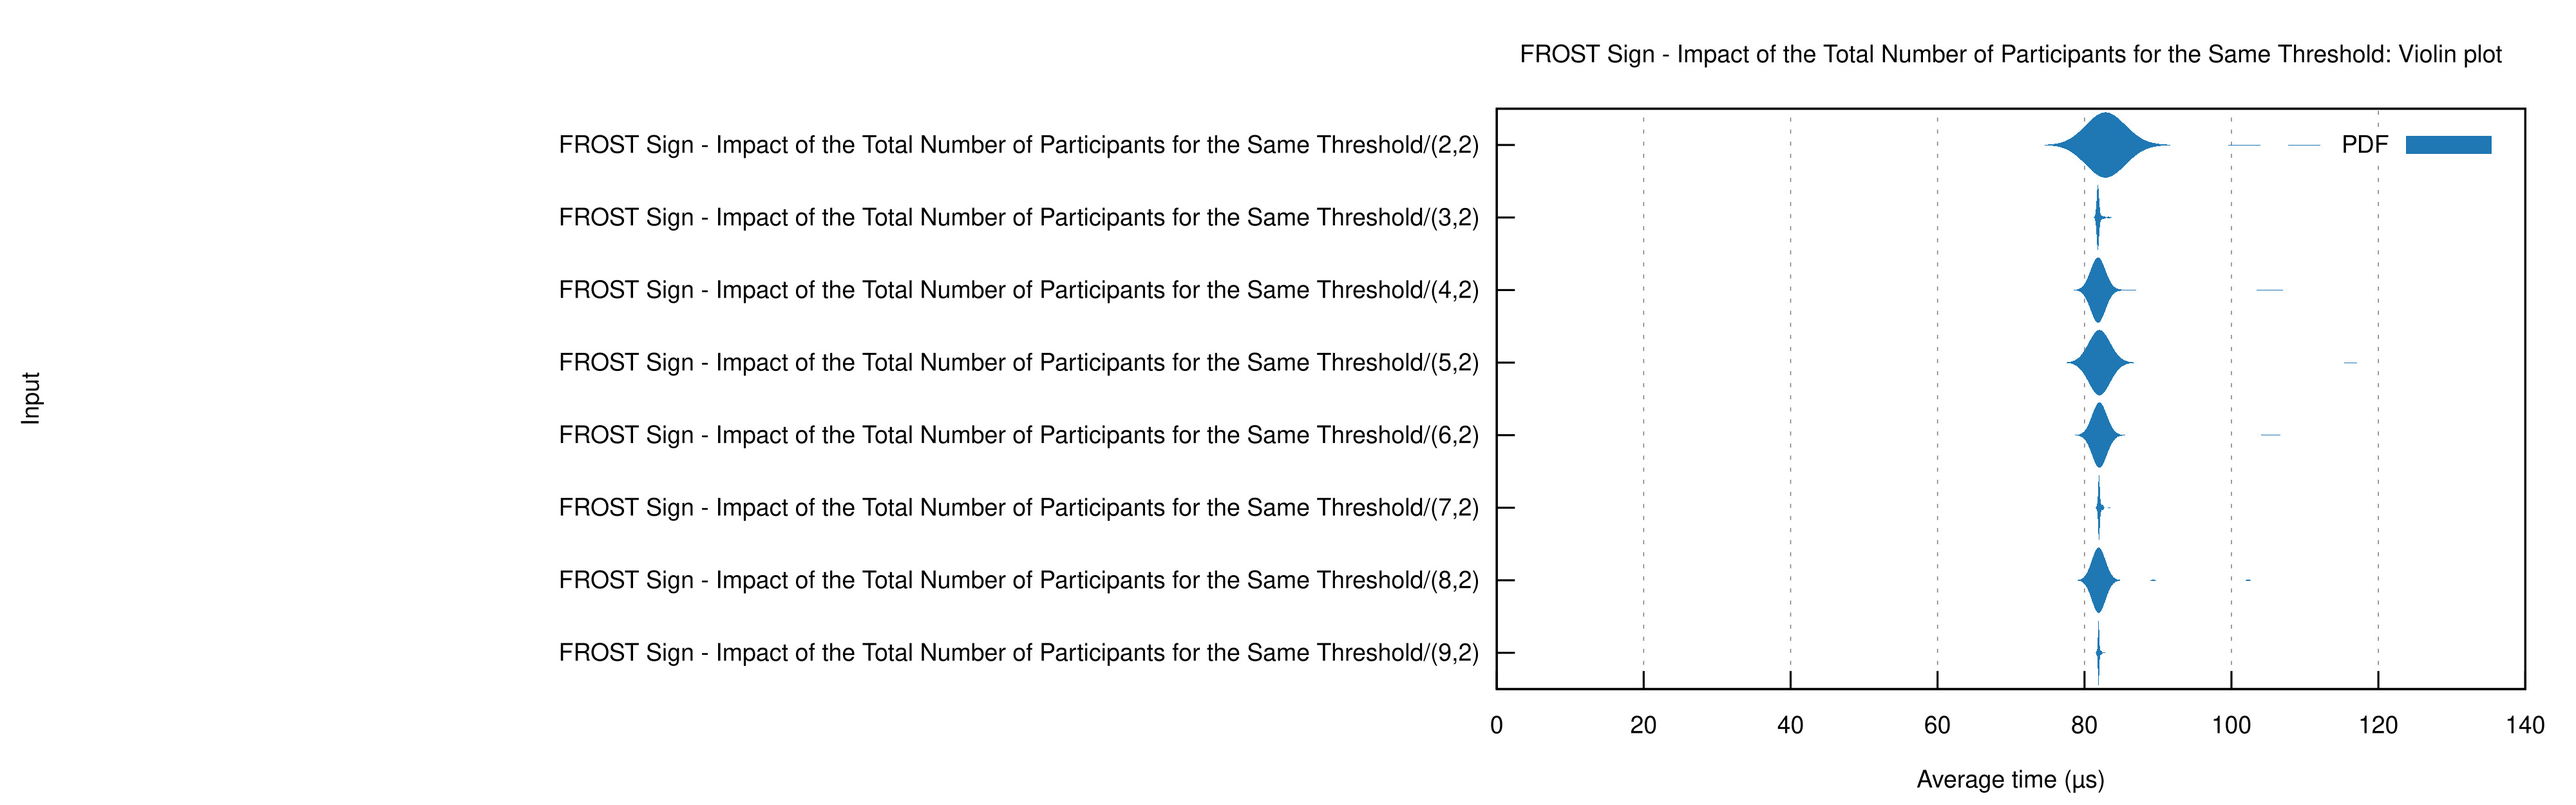
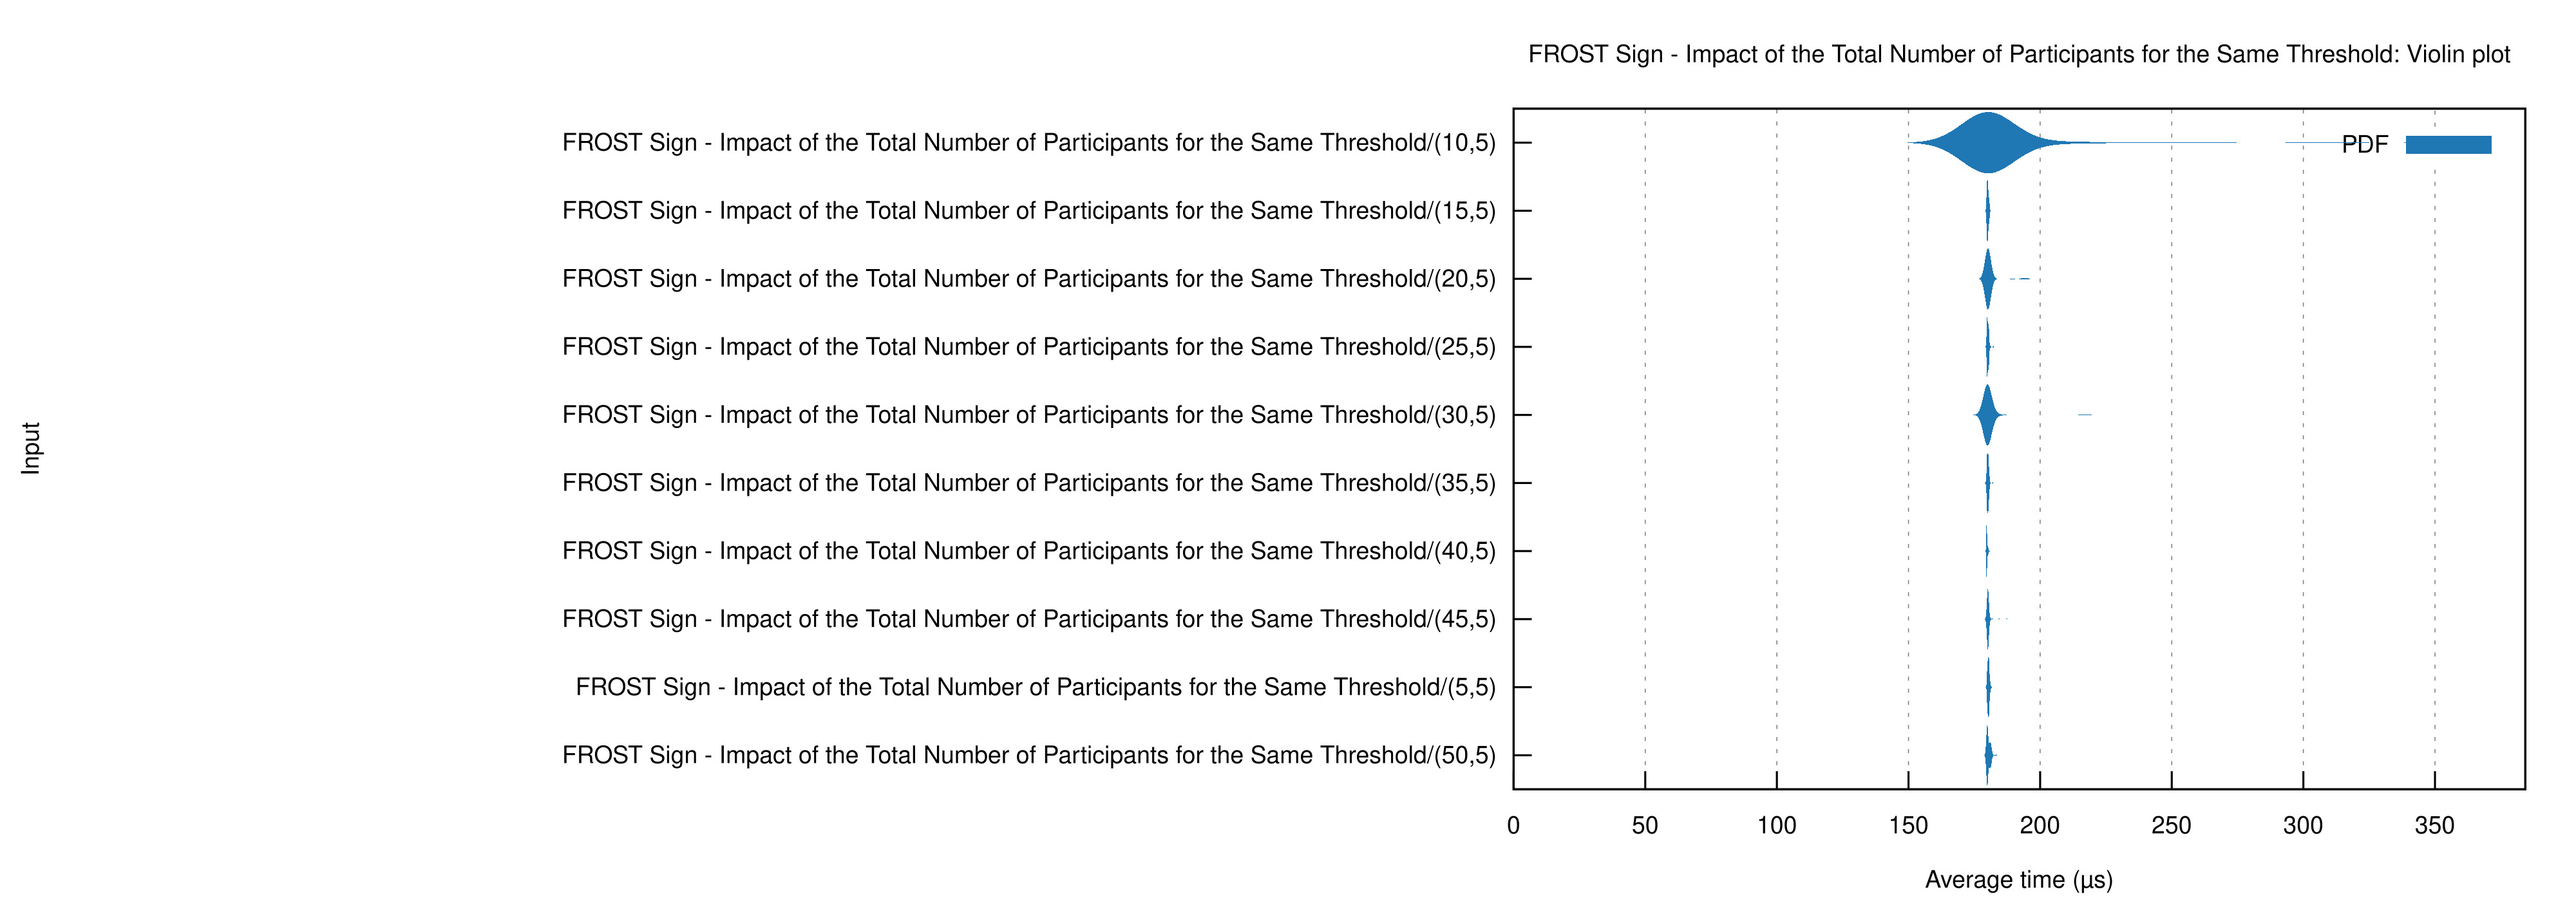
changed the images

diff --git a/benches/sign.rs b/benches/sign.rs
@@ -270,28 +270,32 @@ fn sign_benchmark(c: &mut Criterion) {
     let mut group = c.benchmark_group(
         "FROST Sign - Impact of the Total Number of Participants for the Same Threshold",
     );
-    generate_signature_values(&mut group, &FrostState::new(2, 2)).unwrap();
-    generate_signature_values(&mut group, &FrostState::new(3, 2)).unwrap();
-    generate_signature_values(&mut group, &FrostState::new(4, 2)).unwrap();
-    generate_signature_values(&mut group, &FrostState::new(5, 2)).unwrap();
-    generate_signature_values(&mut group, &FrostState::new(6, 2)).unwrap();
-    generate_signature_values(&mut group, &FrostState::new(7, 2)).unwrap();
-    generate_signature_values(&mut group, &FrostState::new(8, 2)).unwrap();
-    generate_signature_values(&mut group, &FrostState::new(9, 2)).unwrap();
+    generate_signature_values(&mut group, &FrostState::new(5, 5)).unwrap();
+    generate_signature_values(&mut group, &FrostState::new(10, 5)).unwrap();
+    generate_signature_values(&mut group, &FrostState::new(15, 5)).unwrap();
+    generate_signature_values(&mut group, &FrostState::new(20, 5)).unwrap();
+    generate_signature_values(&mut group, &FrostState::new(25, 5)).unwrap();
+    generate_signature_values(&mut group, &FrostState::new(30, 5)).unwrap();
+    generate_signature_values(&mut group, &FrostState::new(35, 5)).unwrap();
+    generate_signature_values(&mut group, &FrostState::new(40, 5)).unwrap();
+    generate_signature_values(&mut group, &FrostState::new(45, 5)).unwrap();
+    generate_signature_values(&mut group, &FrostState::new(50, 5)).unwrap();
     group.finish();
 
     // group that will benchmark how the threshold influences performance
     let mut group = c.benchmark_group(
         "FROST Sign - Impact of Different Thresholds for the Same Number of Participants",
     );
-    generate_signature_values(&mut group, &FrostState::new(9, 2)).unwrap();
-    generate_signature_values(&mut group, &FrostState::new(9, 3)).unwrap();
-    generate_signature_values(&mut group, &FrostState::new(9, 4)).unwrap();
-    generate_signature_values(&mut group, &FrostState::new(9, 5)).unwrap();
-    generate_signature_values(&mut group, &FrostState::new(9, 6)).unwrap();
-    generate_signature_values(&mut group, &FrostState::new(9, 7)).unwrap();
-    generate_signature_values(&mut group, &FrostState::new(9, 8)).unwrap();
-    generate_signature_values(&mut group, &FrostState::new(9, 9)).unwrap();
+    generate_signature_values(&mut group, &FrostState::new(50, 5)).unwrap();
+    generate_signature_values(&mut group, &FrostState::new(50, 10)).unwrap();
+    generate_signature_values(&mut group, &FrostState::new(50, 15)).unwrap();
+    generate_signature_values(&mut group, &FrostState::new(50, 20)).unwrap();
+    generate_signature_values(&mut group, &FrostState::new(50, 25)).unwrap();
+    generate_signature_values(&mut group, &FrostState::new(50, 30)).unwrap();
+    generate_signature_values(&mut group, &FrostState::new(50, 35)).unwrap();
+    generate_signature_values(&mut group, &FrostState::new(50, 40)).unwrap();
+    generate_signature_values(&mut group, &FrostState::new(50, 45)).unwrap();
+    generate_signature_values(&mut group, &FrostState::new(50, 50)).unwrap();
     group.finish();
 }
 

diff --git a/benches/keygen.rs b/benches/keygen.rs
@@ -207,28 +207,32 @@ fn keygen_benchmark(c: &mut Criterion) {
     let mut group = c.benchmark_group(
         "FROST Key Generation - Impact of the Total Number of Participants for the Same Threshold",
     );
-    generate_keygen_values(&mut group, &FrostState::new(2, 2)).unwrap();
-    generate_keygen_values(&mut group, &FrostState::new(3, 2)).unwrap();
-    generate_keygen_values(&mut group, &FrostState::new(4, 2)).unwrap();
-    generate_keygen_values(&mut group, &FrostState::new(5, 2)).unwrap();
-    generate_keygen_values(&mut group, &FrostState::new(6, 2)).unwrap();
-    generate_keygen_values(&mut group, &FrostState::new(7, 2)).unwrap();
-    generate_keygen_values(&mut group, &FrostState::new(8, 2)).unwrap();
-    generate_keygen_values(&mut group, &FrostState::new(9, 2)).unwrap();
+    generate_keygen_values(&mut group, &FrostState::new(5, 5)).unwrap();
+    generate_keygen_values(&mut group, &FrostState::new(10, 5)).unwrap();
+    generate_keygen_values(&mut group, &FrostState::new(15, 5)).unwrap();
+    generate_keygen_values(&mut group, &FrostState::new(20, 5)).unwrap();
+    generate_keygen_values(&mut group, &FrostState::new(25, 5)).unwrap();
+    generate_keygen_values(&mut group, &FrostState::new(30, 5)).unwrap();
+    generate_keygen_values(&mut group, &FrostState::new(35, 5)).unwrap();
+    generate_keygen_values(&mut group, &FrostState::new(40, 5)).unwrap();
+    generate_keygen_values(&mut group, &FrostState::new(45, 5)).unwrap();
+    generate_keygen_values(&mut group, &FrostState::new(50, 5)).unwrap();
     group.finish();
 
     // group that will benchmark how the threshold influences performance
     let mut group = c.benchmark_group(
         "FROST Key Generation - Impact of Different Thresholds for the Same Number of Participants",
     );
-    generate_keygen_values(&mut group, &FrostState::new(9, 2)).unwrap();
-    generate_keygen_values(&mut group, &FrostState::new(9, 3)).unwrap();
-    generate_keygen_values(&mut group, &FrostState::new(9, 4)).unwrap();
-    generate_keygen_values(&mut group, &FrostState::new(9, 5)).unwrap();
-    generate_keygen_values(&mut group, &FrostState::new(9, 6)).unwrap();
-    generate_keygen_values(&mut group, &FrostState::new(9, 7)).unwrap();
-    generate_keygen_values(&mut group, &FrostState::new(9, 8)).unwrap();
-    generate_keygen_values(&mut group, &FrostState::new(9, 9)).unwrap();
+    generate_keygen_values(&mut group, &FrostState::new(50, 5)).unwrap();
+    generate_keygen_values(&mut group, &FrostState::new(50, 10)).unwrap();
+    generate_keygen_values(&mut group, &FrostState::new(50, 15)).unwrap();
+    generate_keygen_values(&mut group, &FrostState::new(50, 20)).unwrap();
+    generate_keygen_values(&mut group, &FrostState::new(50, 25)).unwrap();
+    generate_keygen_values(&mut group, &FrostState::new(50, 30)).unwrap();
+    generate_keygen_values(&mut group, &FrostState::new(50, 35)).unwrap();
+    generate_keygen_values(&mut group, &FrostState::new(50, 40)).unwrap();
+    generate_keygen_values(&mut group, &FrostState::new(50, 45)).unwrap();
+    generate_keygen_values(&mut group, &FrostState::new(50, 50)).unwrap();
     group.finish();
 }
 
